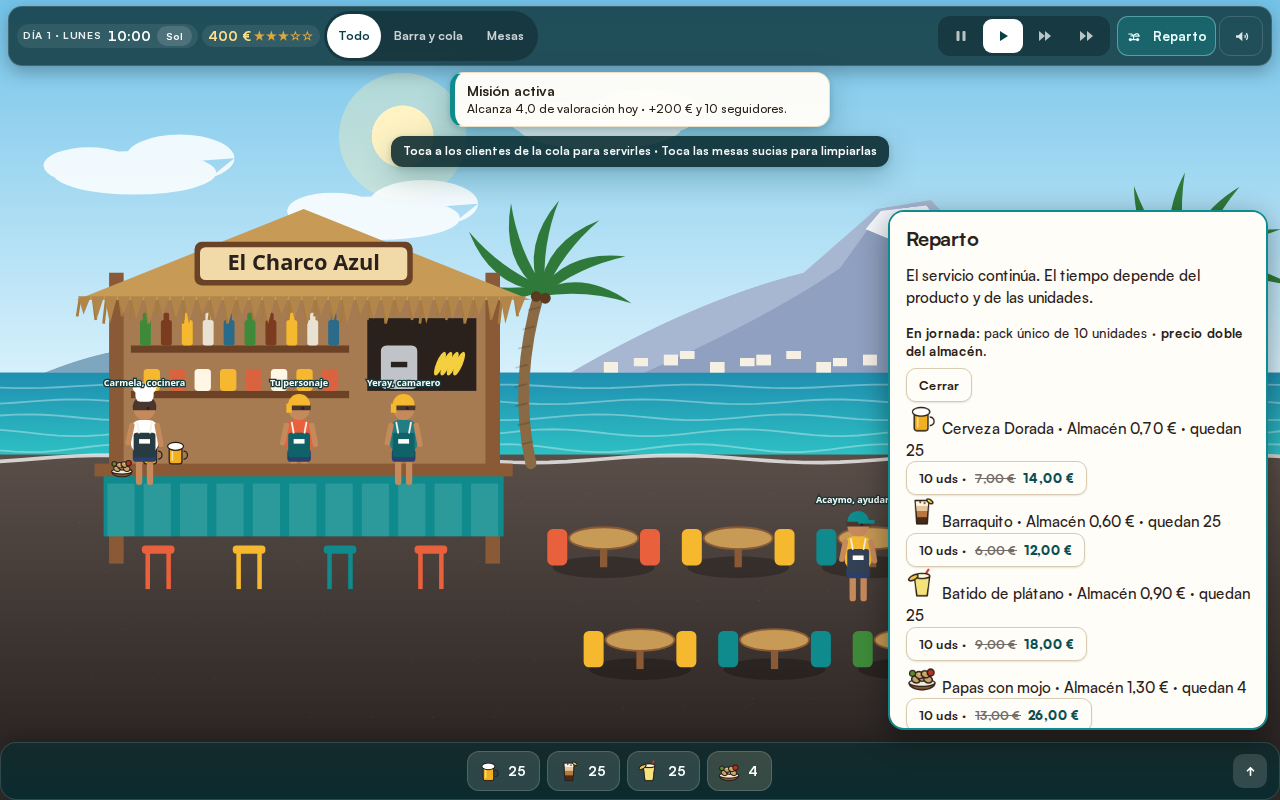
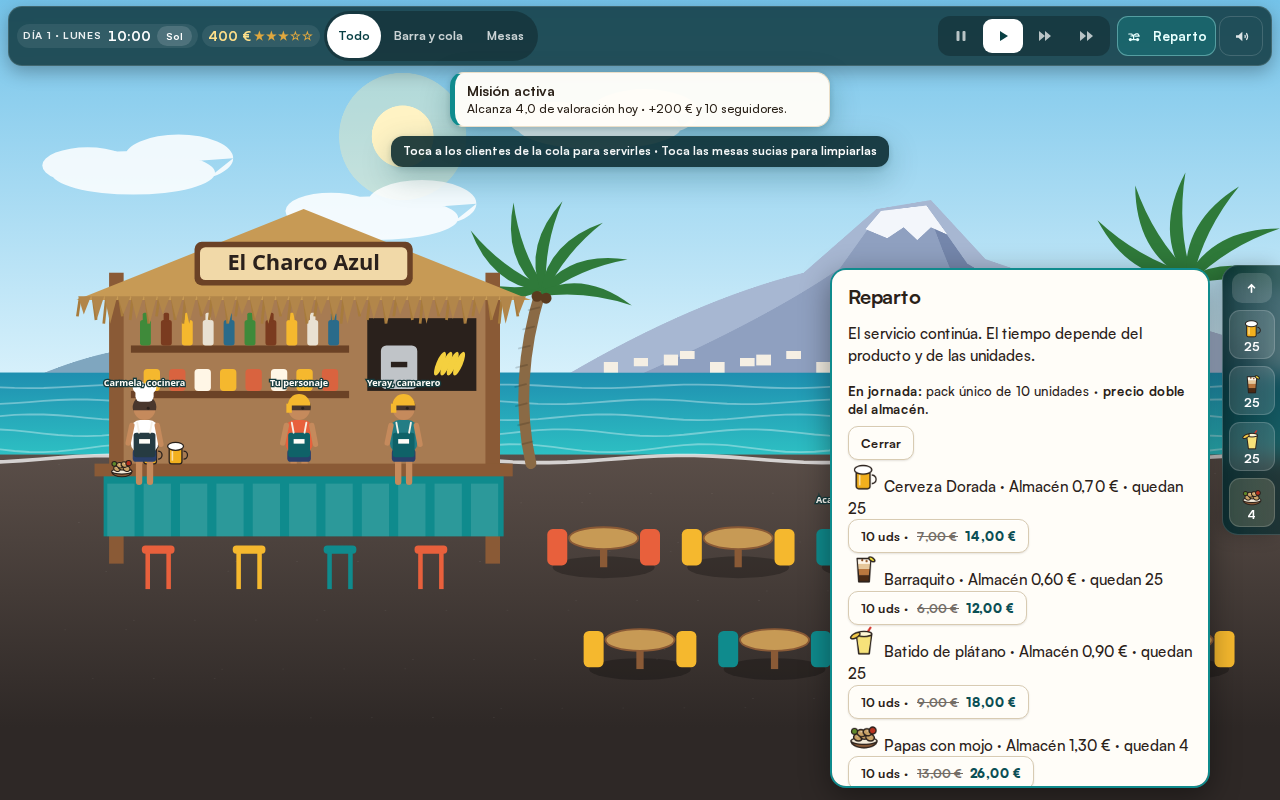
v29.2 ajustes de feedback: inventario al lateral y menos ruido en el informe
- El inventario deja de ocupar el pie de pantalla y cuelga del borde
  derecho como raíl vertical centrado: icono grande y contador debajo,
  plegable a una píldora 'Inventario' con el badge de alertas. Ya no
  estorba la partida ni se pierde bajo el HUD.
- La cámara deja de reservar margen inferior (--bottom-ui a 0): el raíl
  es flotante y solo --inv-w avisa al panel de reparto para no taparlo.
- El panel de reparto se abre a la izquierda del raíl, pegado al borde.
- El tutorial de móvil horizontal vuelve arriba con el HUD para no tapar
  las mesas; la píldora plegada muestra 'Inventario' en una sola línea.
- Informe de jornada: fuera la línea de 'sin mesa' y el recuento de
  rezagados al cierre; queda solo el desglose habitual de pérdidas.
  Perdidos = únicamente quienes se van con la mesa sucia.
- QA visual reescrito para el raíl lateral (17 comprobaciones OK en
  escritorio, móvil vertical y horizontal).

diff --git a/style-v29.css b/style-v29.css
@@ -8,42 +8,41 @@
 /* ---------- HUD: un solo centro de control ---------- */
 #hud{gap:6px}
 
-/* ---------- Inventario (v29.2): franja propia al pie de pantalla ----------
-   Antes vivía comprimida dentro del HUD: chips de 30 px ilegibles y mal
-   situados. Ahora es una estantería ancha abajo: se lee de un vistazo,
-   no tapa el chiringuito y la cámara le reserva su margen. */
+/* ---------- Inventario (v29.2): raíl vertical en el lateral derecho ----------
+   Ni comprimido en el HUD ni en franja al pie: cuelga del borde derecho,
+   centrado en vertical. No tapa el chiringuito ni la cola, se lee de un
+   vistazo y se plega a un botón. Cada chip: icono arriba, contador debajo. */
 #stockbar{
-  position:fixed;left:0;right:0;bottom:0;z-index:40;
-  display:flex;align-items:center;gap:8px;
-  padding:7px 12px calc(7px + var(--sb));
-  background:linear-gradient(180deg,rgba(6,44,48,.62),rgba(6,44,48,.88));
-  border-top:1px solid rgba(255,255,255,.15);
+  position:fixed;right:0;top:50%;transform:translateY(-50%);z-index:40;
+  display:flex;flex-direction:column;align-items:center;gap:7px;
+  width:58px;max-height:calc(100vh - var(--top-ui,0px) - 20px);
+  padding:7px 5px;overflow-y:auto;scrollbar-width:none;
+  background:linear-gradient(270deg,rgba(6,44,48,.66),rgba(6,44,48,.9));
+  border:1px solid rgba(255,255,255,.15);border-right:0;border-radius:16px 0 0 16px;
   backdrop-filter:blur(10px);
-  box-shadow:0 -6px 18px rgba(0,0,0,.22);
-  width:auto;max-width:none;transform:none;
+  box-shadow:-6px 0 18px rgba(0,0,0,.22);
+  left:auto;bottom:auto;max-width:none;
 }
-#stockbar .stock-list{flex:1 1 auto;min-width:0;display:flex;align-items:center;justify-content:center;gap:7px;flex-wrap:nowrap;overflow-x:auto;scrollbar-width:none;min-height:42px;padding:0 2px}
-#stockbar .stock-list::-webkit-scrollbar{display:none}
-/* en vertical también funciona: tira ancha con desplazamiento horizontal
-   (pisa los wrap y el centrado flotante del v28 y los !important del v10) */
-body.portrait #stockbar{left:0;right:0;transform:none;width:auto;max-width:none;flex-wrap:nowrap}
-body.portrait #stockbar .stock-list{flex-wrap:nowrap;justify-content:flex-start}
-body.portrait.playing #stockbar{left:0;right:0;bottom:0;transform:none;width:auto;max-width:none;padding:7px 12px calc(7px + var(--sb))}
-body.playing #stockbar{padding:7px 12px calc(7px + var(--sb))!important;gap:8px!important}
-/* chips grandes: icono 24 px + contador 14 px, para ~13 productos */
-body.playing #stockbar .stock{flex:0 0 auto;position:relative;display:flex;align-items:center;gap:7px;height:40px!important;padding:0 13px 0 9px!important;font-size:14px!important;border-radius:12px;background:rgba(255,255,255,.13);color:#fff;border:1px solid rgba(255,255,255,.17);font:600 14px/1 var(--font-d);font-variant-numeric:tabular-nums;transition:background .2s}
-body.playing #stockbar .stock img{width:24px!important;height:24px!important;object-fit:contain;flex:none}
-#stockbar .stock .n{font:600 14px/1 var(--font-d);font-variant-numeric:tabular-nums}
+#stockbar::-webkit-scrollbar{display:none}
+#stockbar .stock-list{display:flex;flex-direction:column;align-items:center;gap:7px;flex:0 0 auto;min-height:0;padding:0;overflow:visible;flex-wrap:nowrap}
+/* pisa el centrado flotante del v28 y los !important del v10 en partida */
+body.portrait #stockbar,body.portrait.playing #stockbar{left:auto;right:0;top:50%;bottom:auto;transform:translateY(-50%);width:58px;max-width:none;max-height:calc(100vh - var(--top-ui,0px) - 20px);padding:7px 5px;flex-direction:column}
+body.playing #stockbar{padding:7px 5px!important;gap:7px!important;flex-direction:column!important;overflow-y:auto!important}
+/* chips de raíl: icono 22 px y contador debajo, para ~13 productos */
+body.playing #stockbar .stock{flex:0 0 auto;position:relative;display:flex;flex-direction:column;align-items:center;gap:2px;width:46px;height:auto!important;padding:6px 3px 5px!important;font-size:12px!important;border-radius:11px;background:rgba(255,255,255,.13);color:#fff;border:1px solid rgba(255,255,255,.17);font:600 12px/1 var(--font-d);font-variant-numeric:tabular-nums;transition:background .2s}
+body.playing #stockbar .stock img{width:22px!important;height:22px!important;object-fit:contain;flex:none}
+#stockbar .stock .n{font:600 12px/1 var(--font-d);font-variant-numeric:tabular-nums}
 /* estados con color: bajo (pulso suave) y agotado (rojo) */
 #stockbar .stock.low{background:rgba(245,184,46,.22);border-color:var(--gold);color:#ffe08a;animation:stock-low 2.4s ease-in-out infinite}
 #stockbar .stock.out{background:rgba(199,62,42,.5);border-color:#ff8a77;color:#ffd5cd;animation:pulse 1.2s infinite}
 @keyframes stock-low{50%{background:rgba(245,184,46,.4)}}
-/* plegado: píldora "Inventario" centrada con badge de alertas */
-#stockbar.mini{left:50%;right:auto;transform:translateX(-50%);width:auto;max-width:calc(100vw - 24px);border-radius:18px 18px 0 0;border:1px solid rgba(255,255,255,.15);border-bottom:0;padding:4px 8px}
+/* plegado: solo queda el botón con el badge de alertas, pegado al borde */
+#stockbar.mini{width:auto;padding:4px;border-radius:14px 0 0 14px}
 #stockbar.mini .stock-list{display:none}
-#stockbar.mini #stock-toggle{display:inline-flex;align-items:center;gap:7px;width:auto;height:32px;padding:0 14px;border-radius:99px;font-weight:700;font-size:13px}
-#stockbar.mini #stock-toggle .mini-badge{display:inline-grid;place-items:center;min-width:19px;height:19px;padding:0 5px;border-radius:99px;background:var(--coral);color:#fff;font-size:11.5px;font-weight:800}
-.stock-toggle{width:34px;height:34px;flex:none;border:0;border-radius:10px;background:rgba(255,255,255,.15);color:#fff;display:grid;place-items:center;cursor:pointer;transition:background .15s}
+#stockbar.mini #stock-toggle{display:inline-flex;flex-direction:column;align-items:center;gap:3px;width:auto;min-height:132px;padding:10px 6px;border-radius:10px;font-weight:700;font-size:9.5px}
+#stockbar.mini #stock-toggle .mini-lbl{writing-mode:vertical-rl;letter-spacing:.5px;white-space:nowrap}
+#stockbar.mini #stock-toggle .mini-badge{display:inline-grid;place-items:center;min-width:18px;height:18px;padding:0 5px;border-radius:99px;background:var(--coral);color:#fff;font-size:11px;font-weight:800}
+.stock-toggle{width:40px;height:30px;flex:none;order:-1;border:0;border-radius:10px;background:rgba(255,255,255,.15);color:#fff;display:grid;place-items:center;cursor:pointer;transition:background .15s}
 .stock-toggle:hover{background:rgba(255,255,255,.26)}
 .stock-toggle svg{width:15px;height:15px;fill:none;stroke:currentColor;stroke-width:2.2;stroke-linecap:round;stroke-linejoin:round}
 
@@ -60,21 +59,23 @@ body.playing #stockbar .stock img{width:24px!important;height:24px!important;obj
 .hint{top:calc(var(--game-top) + var(--top-ui,0px) + 72px)!important;bottom:auto!important;transform:translateX(-50%)!important;max-width:min(92vw,720px)}
 body.portrait .hint{top:calc(var(--game-top) + var(--top-ui,0px) + 72px)!important;bottom:auto!important;transform:translateX(-50%)!important}
 
-/* ---------- Móvil horizontal: franja compacta pero legible ---------- */
+/* ---------- Móvil horizontal: raíl lateral compacto pero legible ---------- */
 @media (orientation:landscape) and (max-height:520px){
-  body.playing #stockbar{padding:4px 10px calc(4px + var(--sb))!important}
-  #stockbar .stock-list{min-height:34px;gap:5px}
-  body.playing #stockbar .stock{height:34px!important;padding:0 10px 0 7px!important;border-radius:10px;font-size:12.5px!important}
-  body.playing #stockbar .stock img{width:20px!important;height:20px!important}
-  #stockbar .stock .n{font-size:12.5px}
-  #stockbar.mini #stock-toggle{height:28px;padding:0 12px;font-size:12px}
+  /* raíl lateral compacto: chips de 40 px con icono de 18 px */
+  body.playing #stockbar{padding:5px 4px!important;gap:5px!important;max-height:calc(100vh - var(--top-ui,0px) - 12px)!important}
+  #stockbar{width:50px;max-height:calc(100vh - var(--top-ui,0px) - 12px)}
+  #stockbar .stock-list{gap:5px}
+  body.playing #stockbar .stock{width:40px;padding:4px 2px 4px!important;border-radius:9px;font-size:11px!important}
+  body.playing #stockbar .stock img{width:18px!important;height:18px!important}
+  #stockbar .stock .n{font-size:11px}
+  #stockbar.mini #stock-toggle{min-height:110px;padding:8px 5px}
   #hud .cam-bar button{padding:0 9px;min-height:26px;font-size:11.5px}
   /* el clima se queda fuera del HUD compacto: prioridad al inventario */
   #hud .hud-weather{display:none}
   #hud .hud-group{gap:3px;padding:2px 5px}
   #hud .speed button{min-width:30px;min-height:30px}
-  /* el tutorial flota justo encima de la franja de inventario */
-  .hint{top:auto!important;bottom:calc(10px + var(--inv-h,44px))!important;transform:translateX(-50%)!important}
+  /* el tutorial vuelve arriba con el HUD: abajo solo están las mesas */
+  .hint{top:calc(var(--game-top) + var(--top-ui,0px) + 56px)!important;bottom:auto!important;max-width:min(88vw,680px);font-size:12px;padding:7px 12px}
   /* el panel de reparto aprovecha mejor la poca altura: filas compactas
      para que se vean varios productos sin hacer scroll */
   #delivery-panel{max-height:calc(100vh - 120px)!important;padding:10px!important}

diff --git a/delivery-panel.js b/delivery-panel.js
@@ -18,5 +18,5 @@ function paint(){if(!root)return;if(Game.mode!=='service'){root.remove();root=nu
 const intro='<p class="del-note"><strong>En jornada:</strong> pack único de 10 unidades · <strong>precio doble del almacén</strong>.</p>';
 const h='<h3>Reparto</h3><p>El servicio continúa. El tiempo depende del producto y de las unidades.</p>'+intro+'<button class="btn sm" data-del-close="1">Cerrar</button>'+(Game.upgrades.deliveryItem?'<p>Pedido en camino. Esperad a que llegue el stock.</p>':waiting?'<p>Solicitud enviada al anfitrión. Esperando confirmación…</p>':Object.entries(ITEMS).filter(([id])=>itemUnlocked(id)).map(([id,p])=>'<article><div><img width="32" height="32" alt="" src="'+(ICON_URL[id]||'')+'"> '+escapeHtml(p.name)+' · Almacén '+eur2(p.cost)+' · quedan '+(Game.stock[id]||0)+'</div><div>'+SERVICE_PACKS.map(q=>delBtn(id,p,q)).join('')+'</div></article>').join(''));
 if(h!==last){last=h;root.innerHTML=h;}}
-export function openDelivery(callback){send=callback;waiting=false;if(!root){root=document.createElement('section');root.id='delivery-panel';root.setAttribute('role','region');root.setAttribute('aria-label','Pedido al repartidor');root.style.cssText='position:fixed;z-index:80;right:12px;bottom:calc(12px + var(--inv-h,0px) + env(safe-area-inset-bottom,0px));width:min(380px,calc(100vw - 24px));max-height:65vh;overflow:auto;padding:16px;background:#fffdf8;color:#2a2118;border:2px solid #0f8b8d;border-radius:16px;box-shadow:0 8px 30px #0006;touch-action:pan-y';root.addEventListener('click',e=>{const b=e.target.closest('button');if(!b||b.disabled)return;if(b.dataset.delClose){root.remove();root=null;return;}const id=b.dataset.delId,q=Number(b.dataset.delQ);if(!id||!SERVICE_PACKS.includes(q)||Game.mode!=='service'||Game.upgrades.deliveryItem)return;if(Net.role==='guest'){waiting=true;until=Date.now()+5000;guestSend('delivery',{id,qty:q});}else send(id,q);paint();});document.body.append(root);}last='';paint();}
+export function openDelivery(callback){send=callback;waiting=false;if(!root){root=document.createElement('section');root.id='delivery-panel';root.setAttribute('role','region');root.setAttribute('aria-label','Pedido al repartidor');root.style.cssText='position:fixed;z-index:80;right:calc(12px + var(--inv-w,58px) + env(safe-area-inset-right,0px));bottom:calc(12px + env(safe-area-inset-bottom,0px));width:min(380px,calc(100vw - 24px - var(--inv-w,58px)));max-height:65vh;overflow:auto;padding:16px;background:#fffdf8;color:#2a2118;border:2px solid #0f8b8d;border-radius:16px;box-shadow:0 8px 30px #0006;touch-action:pan-y';root.addEventListener('click',e=>{const b=e.target.closest('button');if(!b||b.disabled)return;if(b.dataset.delClose){root.remove();root=null;return;}const id=b.dataset.delId,q=Number(b.dataset.delQ);if(!id||!SERVICE_PACKS.includes(q)||Game.mode!=='service'||Game.upgrades.deliveryItem)return;if(Net.role==='guest'){waiting=true;until=Date.now()+5000;guestSend('delivery',{id,qty:q});}else send(id,q);paint();});document.body.append(root);}last='';paint();}
 setInterval(paint,250);

diff --git a/sim/lost.js b/sim/lost.js
@@ -1,29 +1,6 @@
-/* v29.2: contabilidad honesta de clientes perdidos.
-   Módulo sin dependencias para poder probarlo en Node sin navegador. */
-
-/* Clientes de barra que al forzar el cierre siguen sin resolver: llegando,
-   en cola, esperando mesa o en plena preparación. Los de terraza los cuenta
-   abortFloor; estos antes se descartaban sin sumar al informe. */
-const STRANDED=['arrive','queue','waitTable','prep'];
-
-/* Cuenta los clientes varados al cierre forzado y devuelve cuántos sumó.
-   visit/outcome son callbacks inyectados (recordVisit/regularOutcome) para
-   no arrastrar dependencias de UI aquí. */
-export function countStranded(customers, stats, visit, outcome){
-  if(!Array.isArray(customers)||!stats) return 0;
-  let n=0;
-  for(const c of customers){
-    if(c.floorTableId==null&&STRANDED.includes(c.state)&&!c.lostCounted){
-      c.lostCounted=true;
-      stats.lostClose=(stats.lostClose||0)+1;
-      stats.lost=(stats.lost||0)+1;
-      n++;
-      if(visit)visit(c,{lost:'cierre'});
-      if(outcome)outcome(c,0);
-    }
-  }
-  return n;
-}
+/* v29.2: reglas de jornada extraídas a módulo sin dependencias para poder
+   probarlas en Node sin navegador. Sin información extra en el informe:
+   lo que no pasó en el servicio no se cuenta dos veces. */
 
 /* v29.2: todo cliente que come en mesa deja la mesa sucia. Antes era una
    lotería del 75%. Centralizado aquí para probarlo sin el simulador. */

diff --git a/layout.js b/layout.js
@@ -46,15 +46,16 @@ function place(){
 }
 function refresh(){scheduleViewportResize();requestAnimationFrame(()=>{applyCam(true);place();});}
 function measure(){
-  /* v29.2: arriba vive el HUD (estado + vistas) y abajo la franja de inventario.
-     La cámara reserva margen para ambas y --inv-h avisa a reparto y tutorial. */
+  /* v29.2: arriba vive el HUD (estado + vistas) y a la derecha el raíl de
+     inventario. La cámara solo reserva margen superior; el raíl es flotante
+     y --inv-w avisa al panel de reparto para no taparlo. */
   const e=document.getElementById('hud');
   const sb=document.getElementById('stockbar');
   const v=e&&e.getClientRects().length&&!e.classList.contains('hidden')?e.getBoundingClientRect().height:0;
-  const sv=sb&&sb.getClientRects().length&&!sb.classList.contains('hidden')?sb.getBoundingClientRect().height:0;
-  root.style.setProperty('--top-ui',v+'px');root.style.setProperty('--bottom-ui',sv+'px');
-  root.style.setProperty('--inv-h',sv+'px');
-  uiTop=v;uiBottom=sv;
+  const sw=sb&&sb.getClientRects().length&&!sb.classList.contains('hidden')?Math.min(sb.getBoundingClientRect().width,60):0;
+  root.style.setProperty('--top-ui',v+'px');root.style.setProperty('--bottom-ui','0px');
+  root.style.setProperty('--inv-w',sw+'px');
+  uiTop=v;uiBottom=0;
   refresh();
 }
 /* v29.1: el segmento de vistas es markup estático del HUD (index.html);

diff --git a/sim/day.js b/sim/day.js
@@ -43,7 +43,7 @@ import { updateHud } from "../ui.js?v=29.2.0";
 import { RANDOM_EVENTS } from "./season.js?v=29.2.0";
 import { abandonFloor } from "./service.js?v=29.2.0";
 import { addSat } from "./economy.js?v=29.2.0";
-import { countStranded, tableStateAfterMeal } from "./lost.js?v=29.2.0";
+import { tableStateAfterMeal } from "./lost.js?v=29.2.0";
 import { commitClean } from "./service.js?v=29.2.0";
 import { completeFloorOrder } from "./service.js?v=29.2.0";
 import { difficultyProfile } from "./season.js?v=29.2.0";
@@ -122,12 +122,7 @@ export function update(dt){
     Game.closeT+=dt;
     for(const c of Game.customers) if(c.floorTableId==null&&c.state==='prep' && c.inPrep===0 && pendingIdx(c).length) giveUpPending(c);
     const busy = Game.customers.some(c=>c.state!=='gone')||floorHasWork();
-    if(Game.closeT>3.5 && (!busy || Game.closeT>45)){
-      /* v29.2: al forzar el cierre, los clientes de barra sin resolver también
-         cuentan como perdidos por cierre: antes se descartaban sin sumar. */
-      countStranded(Game.customers, Game.dayStats, recordVisit, regularOutcome);
-      abortFloor();endDay(); return;
-    }
+    if(Game.closeT>3.5 && (!busy || Game.closeT>45)){ abortFloor();endDay(); return; }
   }
   Game.slots.forEach(s=>{
     if(s.cust){ s.t+=dt; if(s.t>=s.total) finishSlot(s); }

diff --git a/report-render.js b/report-render.js
@@ -64,7 +64,6 @@ export function reportStatsHtml(s, m){
   const tips=(s.tips||0)+(s.tipsP||0);
   const notes=[];
   if(s.lost) notes.push(`<p>Clientes perdidos: <b>${[s.lostPrice?s.lostPrice+' por precios altos':'',s.lostQueue?s.lostQueue+' por cola llena':'',s.lostPatience?s.lostPatience+' por esperar demasiado':'',s.lostStock?s.lostStock+' porque no quedaba lo que pedían':'',s.lostClose?s.lostClose+' por cerrar con ellos esperando':''].filter(Boolean).join(', ')}</b>.</p>`);
-  if(s.noTable) notes.push(`<p>Sin mesa: <b>${s.noTable} cliente${s.noTable>1?'s':''}</b> pagó${s.noTable>1?'ron':''} para llevar sin sitio donde sentarse. Amplía la terraza o contrata ayuda de sala.</p>`);
   if(s.regVisits) notes.push(`<p>Habituales hoy: <b>${s.regVisits} visita${s.regVisits>1?'s':''}</b>. Atendedlos bien y volverán más fieles.</p>`);
   if(Game.buzz>0.03) notes.push(`<p>Boca a boca: los habituales contentos traen amigos (<b>+${Math.round(Game.buzz*12)}%</b> de afluencia mañana).</p>`);
   if((s.beachRentals||0)>0) notes.push(`<p>Alquileres de hamacas: <b>${s.beachRentals}</b>.</p>`);

diff --git a/index.html b/index.html
@@ -43,8 +43,8 @@
     <button id="btn-sound" class="hud-btn quiet" type="button" aria-label="Sonido activado" data-sound="on"><svg viewBox="0 0 20 20" aria-hidden="true"><path d="M11 4.5L6.5 8.5H3.5v3h3l4.5 4V4.5z" fill="currentColor"/><path d="M14.2 8.8a3.8 3.8 0 010 2.4M16 6.5a6.5 6.5 0 010 7" fill="none" stroke="currentColor" stroke-width="1.55" stroke-linecap="round"/></svg><span class="snd-lbl">Sonido: sí</span></button>
   </div>
 </header>
-<!-- v29.2: el inventario baja al pie de pantalla como franja propia: grande,
-     legible y lejos de la barra de estado. -->
+<!-- v29.2: el inventario cuelga del lateral derecho como raíl vertical:
+     visible sin molestar y plegable a un botón. -->
 <div id="stockbar" class="stockbar hidden"><div class="stock-list" aria-label="Género en stock"></div><button id="stock-toggle" class="stock-toggle" type="button" aria-label="Plegar inventario" aria-expanded="true"><svg viewBox="0 0 20 20"><path d="M10 5v10m0 0l-4-4m4 4l4-4"/></svg></button></div>
 <div id="hint" class="hint hidden"></div>
 <div id="toasts" class="toasts"></div>

diff --git a/ui-service.js b/ui-service.js
@@ -65,9 +65,9 @@ export function updateHud(){
    pasa a estado bajo o agotado; la preferencia manual se recuerda. */
 let stockMini=false;try{stockMini=localStorage.getItem('lalioli-stockmini')==='1';}catch(e){}
 let stockLowSeen=new Set();
-/* v29.2: la franja de inventario vive al pie de pantalla, fuera del HUD.
-   Plegada queda en una píldora "Inventario" con un badge que cuenta
-   productos en estado bajo o agotado. */
+/* v29.2: el inventario es un raíl vertical en el lateral derecho, fuera del
+   HUD. Plegado queda en un botón con un badge que cuenta productos en
+   estado bajo o agotado. */
 let stockAlerts=0;
 function applyStockMode(){const bar=$('#stockbar');if(!bar)return;bar.classList.toggle('mini',stockMini);const tg=$('#stock-toggle');if(!tg)return;tg.setAttribute('aria-expanded',String(!stockMini));tg.setAttribute('aria-label',stockMini?'Desplegar inventario':'Plegar inventario');
   if(stockMini){tg.innerHTML='<span class="mini-lbl">Inventario</span>'+(stockAlerts>0?`<span class="mini-badge">${stockAlerts}</span>`:'');}

diff --git a/canvas.js b/canvas.js
@@ -52,9 +52,11 @@ export function resize(){
   const cw=Math.max(1,Math.round(width*dpr)),ch=Math.max(1,Math.round(height*dpr));
   if(canvas.width!==cw)canvas.width=cw;
   if(canvas.height!==ch)canvas.height=ch;
-  const hud=document.getElementById('hud'),stock=document.getElementById('stockbar');
+  const hud=document.getElementById('hud');
+  /* v29.2: el inventario es un raíl lateral flotante: la cámara ya no
+     reserva margen inferior, solo el superior del HUD. */
   const top=hud&&hud.getClientRects().length?hud.getBoundingClientRect().height+4:0;
-  const bottom=stock&&stock.getClientRects().length?stock.getBoundingClientRect().height+4:0;
+  const bottom=0;
   root.style.setProperty('--top-ui',top+'px');
   root.style.setProperty('--bottom-ui',bottom+'px');
   const styles=getComputedStyle(root);
